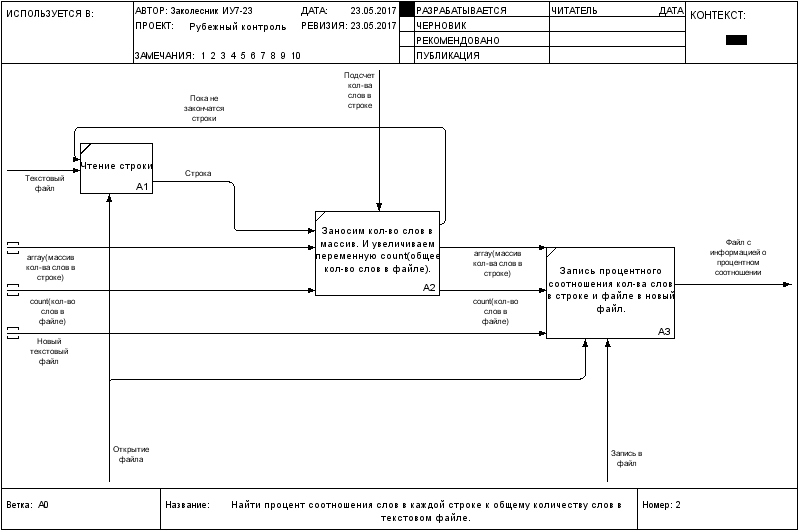
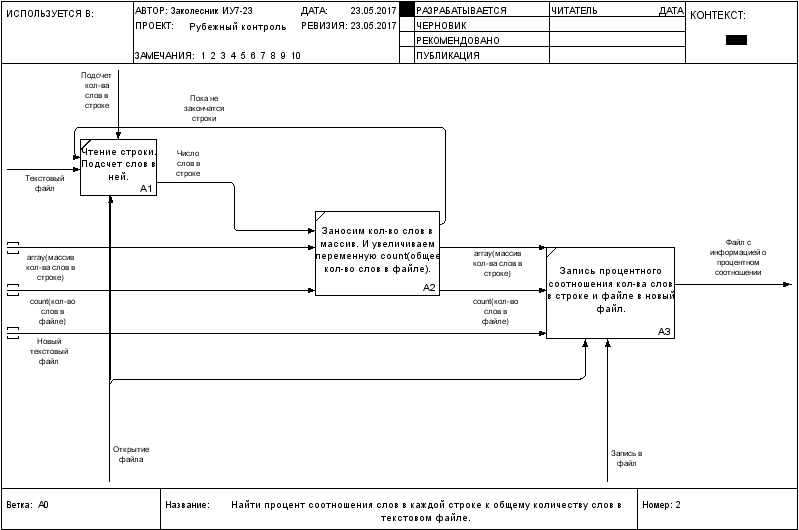
all

Changed region(s): [[0.03, 0.2415, 0.2703, 0.3925], [0.4205, 0.1208, 0.4806, 0.2113], [0.0901, 0.1208, 0.1502, 0.2113]]

diff --git a/RK_01/program.py b/RK_01/program.py
@@ -1,0 +1,29 @@
+def main():
+    input_name = input("Введите имя файла: ")
+    #data, count_all, count_lines
+    #output_name = input("Введите имя файла: ")
+    count()
+    
+def count():
+    data = [0]*100
+    all_count = 0
+    for i in open("test.txt", 'r'):
+        flag = True
+        count_n = 1
+        print(i)
+        for j in range(len(i)):
+            if i[j] == ' ' and flag:
+                count_n += 1
+                flag = False
+            if 'a' <= i[j] <= 'z' or 'а' <= i[j] <= 'я' or 'A' <= i[j] <= 'Z' or 'А' <= i[j] <= 'Я':
+                   flag = True
+    data[i] = count_n
+    all_count += count_n
+    #input_array(all_count,data, i, count_n)
+    #print(all_count,data, i, count_n)
+    #print(count_n)
+#def input_array(all_count,data, i, znach):
+#    data[i] = znach
+#    all_count += znach
+if __name__ == '__main__':
+    main()
